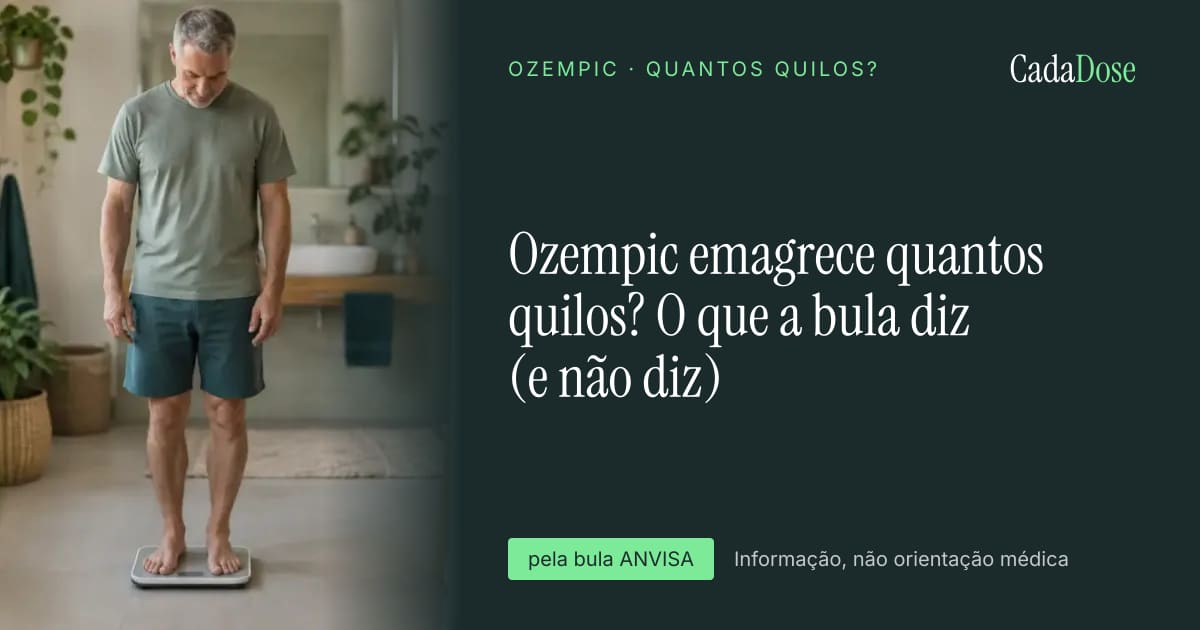
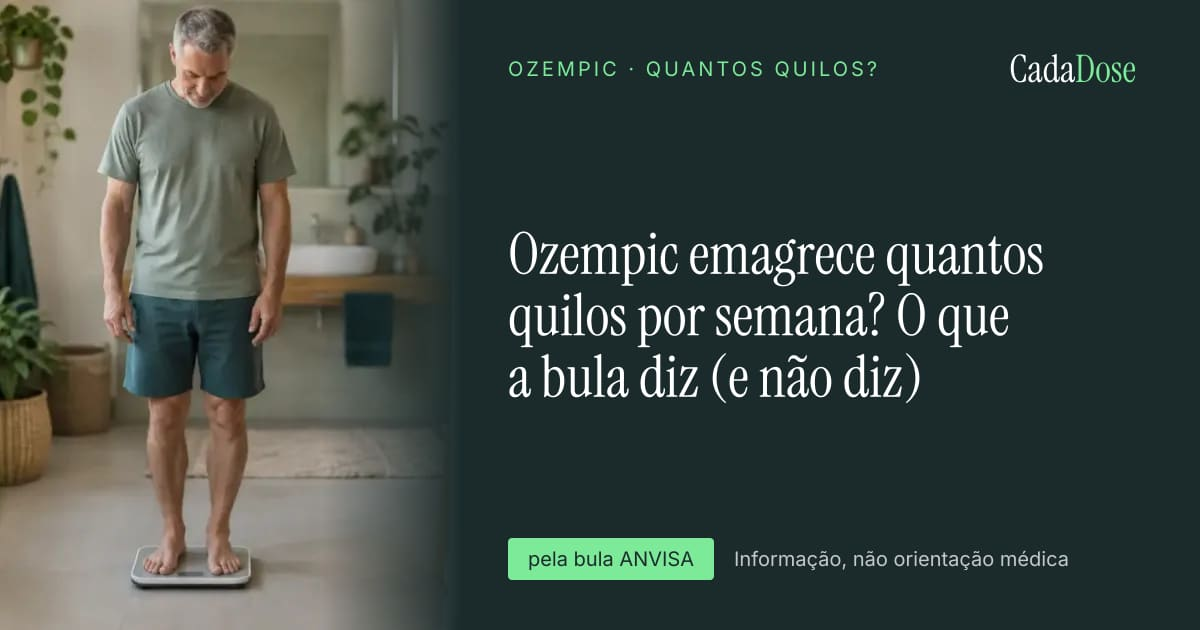
Titles: 'quantos quilos por semana' and 'o que é / para que serve' phrasing from Search Console queries
Claude-Session: https://claude.ai/code/session_01Pw4jiE9WjkrQrU8knGg6oQ

Changed region(s): [[0.4008, 0.4524, 0.8633, 0.6333]]

diff --git a/src/content/pt-wave8.ts b/src/content/pt-wave8.ts
@@ -56,9 +56,9 @@ export const ptWave8: Article[] = [
     [{ heading: "Texto da bula (instruções de uso e seção 5)", bullets: ["“Sempre use uma nova agulha para cada injeção.”", "“Se derrubar ou suspeitar de um problema, encaixe uma agulha nova e verifique o fluxo antes de injetar.”", "“Não utilize este medicamento se a solução não estiver límpida e incolor.”", "Caneta em uso: 6 semanas abaixo de 30 °C ou em geladeira; não congelar."] }],
     [{ q: "A agulha do Ozempic pode ser reutilizada?", a: "Não. A bula orienta agulha nova a cada injeção." }],
     [oz, bulario]),
-  A("ozempic", "quantos-quilos", "Ozempic emagrece quantos quilos? O que a bula diz (e não diz)",
+  A("ozempic", "quantos-quilos", "Ozempic emagrece quantos quilos por semana? O que a bula diz (e não diz)",
     "A bula do Ozempic é de um medicamento para diabetes tipo 2 e não traz quilos nem percentual de perda de peso. Emagrecimento não é a indicação registrada. Para controle de peso com semaglutida, o produto com bula para isso é o Wegovy.",
-    "Ozempic e perda de peso: o que consta na bula (indicação) e o que não consta (quilos).",
+    "Ozempic emagrece quantos quilos por semana? A bula indica o Ozempic para diabetes tipo 2 e não traz nenhum número de quilos; veja o que consta e o que não consta.",
     [silent("Ozempic", "quilos ou percentual de perda de peso"), { heading: "Indicação (seção 1)", paragraphs: ["Diabetes tipo 2 em adultos, com dieta e exercício. O uso para outra finalidade é decisão exclusiva do médico."] }, diario],
     [{ q: "1 caneta de Ozempic emagrece quantos quilos?", a: "A bula não traz esse número e a indicação registrada é o diabetes tipo 2." }],
     [oz, wg, bulario]),
@@ -70,9 +70,9 @@ export const ptWave8: Article[] = [
     [{ heading: "Texto da bula (seções 3 e 8)", bullets: ["“Não use Wegovy® se você for alérgico à semaglutida ou a qualquer outro componente deste medicamento”.", "Raras: “Reações alérgicas graves (reações anafiláticas, angioedema)”.", "Sinais: dificuldade respiratória, inchaço, tontura, batimento cardíaco acelerado, sudorese, perda de consciência. Procure atendimento imediato."] }],
     [{ q: "Inchaço no rosto depois do Wegovy: o que fazer?", a: "A bula lista como sinal de reação alérgica grave: procure ajuda imediatamente." }],
     [wg, bulario]),
-  A("wegovy", "quantos-quilos", "Wegovy emagrece quantos quilos? O único número que a bula traz",
+  A("wegovy", "quantos-quilos", "Wegovy emagrece quantos quilos por semana? O único número que a bula traz",
     "A bula do Wegovy não traz quilos nem percentual de perda esperada para adultos. O único marco numérico é para adolescentes: “você só deve continuar usando Wegovy® se tiver perdido pelo menos 5% do seu IMC após 12 semanas” (na dose de manutenção). Promessas de quilos não vêm da bula.",
-    "Quanto se perde com Wegovy segundo a bula: o marco de 5% do IMC em adolescentes, e nada mais.",
+    "Wegovy emagrece quantos quilos por semana ou por mês? A bula não traz esse número; o único marco numérico é 5% do IMC em adolescentes.",
     [{ heading: "O que a bula diz (seção 6, adolescentes)", paragraphs: ["“você só deve continuar usando Wegovy® se tiver perdido pelo menos 5% do seu IMC após 12 semanas”."] }, silent("Wegovy", "quilos por semana ou por mês em adultos"), diario],
     [{ q: "Wegovy 2,4 mg emagrece quanto por mês?", a: "A bula não traz esse número." }],
     [wg, bulario]),

diff --git a/src/content/pt-wave7.ts b/src/content/pt-wave7.ts
@@ -53,15 +53,15 @@ export const ptWave7: Article[] = [
     ],
     [mj, bulario]),
 
-  A("mounjaro", "quantos-quilos", "Mounjaro emagrece quantos quilos? O único número que a bula traz",
+  A("mounjaro", "quantos-quilos", "Mounjaro emagrece quantos quilos por semana? O único número que a bula traz",
     "A bula do paciente do Mounjaro não traz quilos por semana nem por mês. O único marco numérico é este: se não houver perda de pelo menos 5% do peso inicial em 6 meses na maior dose tolerada, o médico decide se continua. Resultados individuais variam; promessas de quilos não vêm da bula.",
-    "Quanto se perde com Mounjaro segundo a bula: o marco de 5% em 6 meses, e nada mais.",
+    "Mounjaro emagrece quantos quilos por semana, por mês ou por dose? A bula não traz esse número: o único marco é 5% do peso em 6 meses na maior dose tolerada.",
     [{ heading: "O que a bula diz (seção 6, controle do peso)", paragraphs: ["Reavaliação após 6 meses na maior dose tolerada: continuar só se houver perda de pelo menos 5% do peso inicial."] }, silent("Mounjaro", "quilos por semana, por mês ou por dose"), { heading: "Por que o diário ajuda", paragraphs: ["Pesar-se sempre no mesmo dia e horário e marcar cada mudança de dose mostra a sua curva real, que é o que o médico usa para decidir."] }],
     [{ q: "Mounjaro 5 mg emagrece quanto?", a: "A bula não traz esse número." }, { q: "Com quanto tempo o Mounjaro começa a fazer efeito?", a: "A bula não fixa prazo; o marco que ela usa é 6 meses na maior dose tolerada." }],
     [mj, bulario]),
-  A("saxenda", "quantos-quilos", "Saxenda emagrece quantos quilos? O único número que a bula traz",
+  A("saxenda", "quantos-quilos", "Saxenda emagrece quantos quilos por semana? O único número que a bula traz",
     "A bula do Saxenda não traz quilos por semana. O marco é: após 12 semanas na dose de 3,0 mg/dia, se não houver perda de pelo menos 5% do peso inicial, a bula orienta descontinuar o tratamento, por decisão médica.",
-    "Quanto se perde com Saxenda segundo a bula: o marco de 5% em 12 semanas a 3,0 mg.",
+    "Saxenda emagrece quantos quilos por semana ou por mês? A bula não traz esse número: o marco é 5% do peso após 12 semanas a 3,0 mg/dia.",
     [{ heading: "O que a bula diz (seção 6)", paragraphs: ["Descontinuar “após 12 semanas de tratamento na dose de 3,0 mg/dia” se a perda for menor que 5% do peso inicial."] }, silent("Saxenda", "quilos por semana ou por mês")],
     [{ q: "Saxenda emagrece em quanto tempo?", a: "A bula usa o marco de 12 semanas a 3,0 mg/dia para avaliar 5% de perda." }],
     [sx, bulario]),

diff --git a/src/content/pt-wave4.ts b/src/content/pt-wave4.ts
@@ -31,7 +31,7 @@ export const ptWave4: Article[] = [
   {
     medicationSlug: "mounjaro",
     intent: "para-que-serve",
-    title: "O que é Mounjaro (tirzepatida) e para que serve: a indicação da bula brasileira",
+    title: "Mounjaro: o que é, para que serve e o que diz a bula brasileira (3 indicações)",
     answer:
       "Segundo a bula brasileira versão 05/2026 (ampliação de uso aprovada pela ANVISA em 22/04/2026), Mounjaro tem três indicações: melhorar o controle glicêmico de adultos com diabetes tipo 2; controle crônico do peso em adultos com IMC igual ou maior que 30, ou igual ou maior que 27 com pelo menos uma condição relacionada ao peso; e tratamento da apneia obstrutiva do sono moderada a grave em adultos com obesidade. Sempre junto com dieta e atividade física.",
     description: "Indicação oficial do Mounjaro no Brasil segundo a bula do paciente, e como o medicamento age no corpo.",
@@ -194,7 +194,7 @@ export const ptWave4: Article[] = [
   {
     medicationSlug: "ozempic",
     intent: "para-que-serve",
-    title: "O que é Ozempic (semaglutida) e para que serve: a indicação da bula brasileira",
+    title: "Ozempic: o que é, para que serve e o que diz a bula brasileira",
     answer:
       "Segundo a bula, Ozempic é indicado \"para tratar pacientes adultos com diabetes tipo 2 não satisfatoriamente controlada\", com dieta e exercícios, e para reduzir o risco de piora dos rins e de morte cardiovascular em adultos com diabetes tipo 2 e doença renal crônica. Perda de peso não é uma indicação na bula: aparece apenas como efeito colateral.",
     description: "Indicação oficial do Ozempic no Brasil, como age, e o que a bula diz (e não diz) sobre emagrecimento.",
@@ -315,7 +315,7 @@ export const ptWave4: Article[] = [
   {
     medicationSlug: "wegovy",
     intent: "para-que-serve",
-    title: "O que é Wegovy (semaglutida) e para que serve: a indicação da bula brasileira",
+    title: "Wegovy: o que é, para que serve e o que diz a bula brasileira",
     answer:
       "Segundo a bula, Wegovy é indicado para controle de peso em adultos com IMC igual ou maior que 30, ou IMC entre 27 e 30 com alguma condição relacionada ao peso (como diabetes ou hipertensão); em adolescentes a partir de 12 anos com obesidade e peso acima de 60 kg; para tratar MASH (doença hepática) com fibrose moderada a avançada sem cirrose; e para reduzir risco cardiovascular em adultos com doença cardíaca estabelecida e IMC igual ou maior que 27.",
     description: "Indicações oficiais do Wegovy no Brasil segundo a bula do paciente, e como o medicamento age.",
